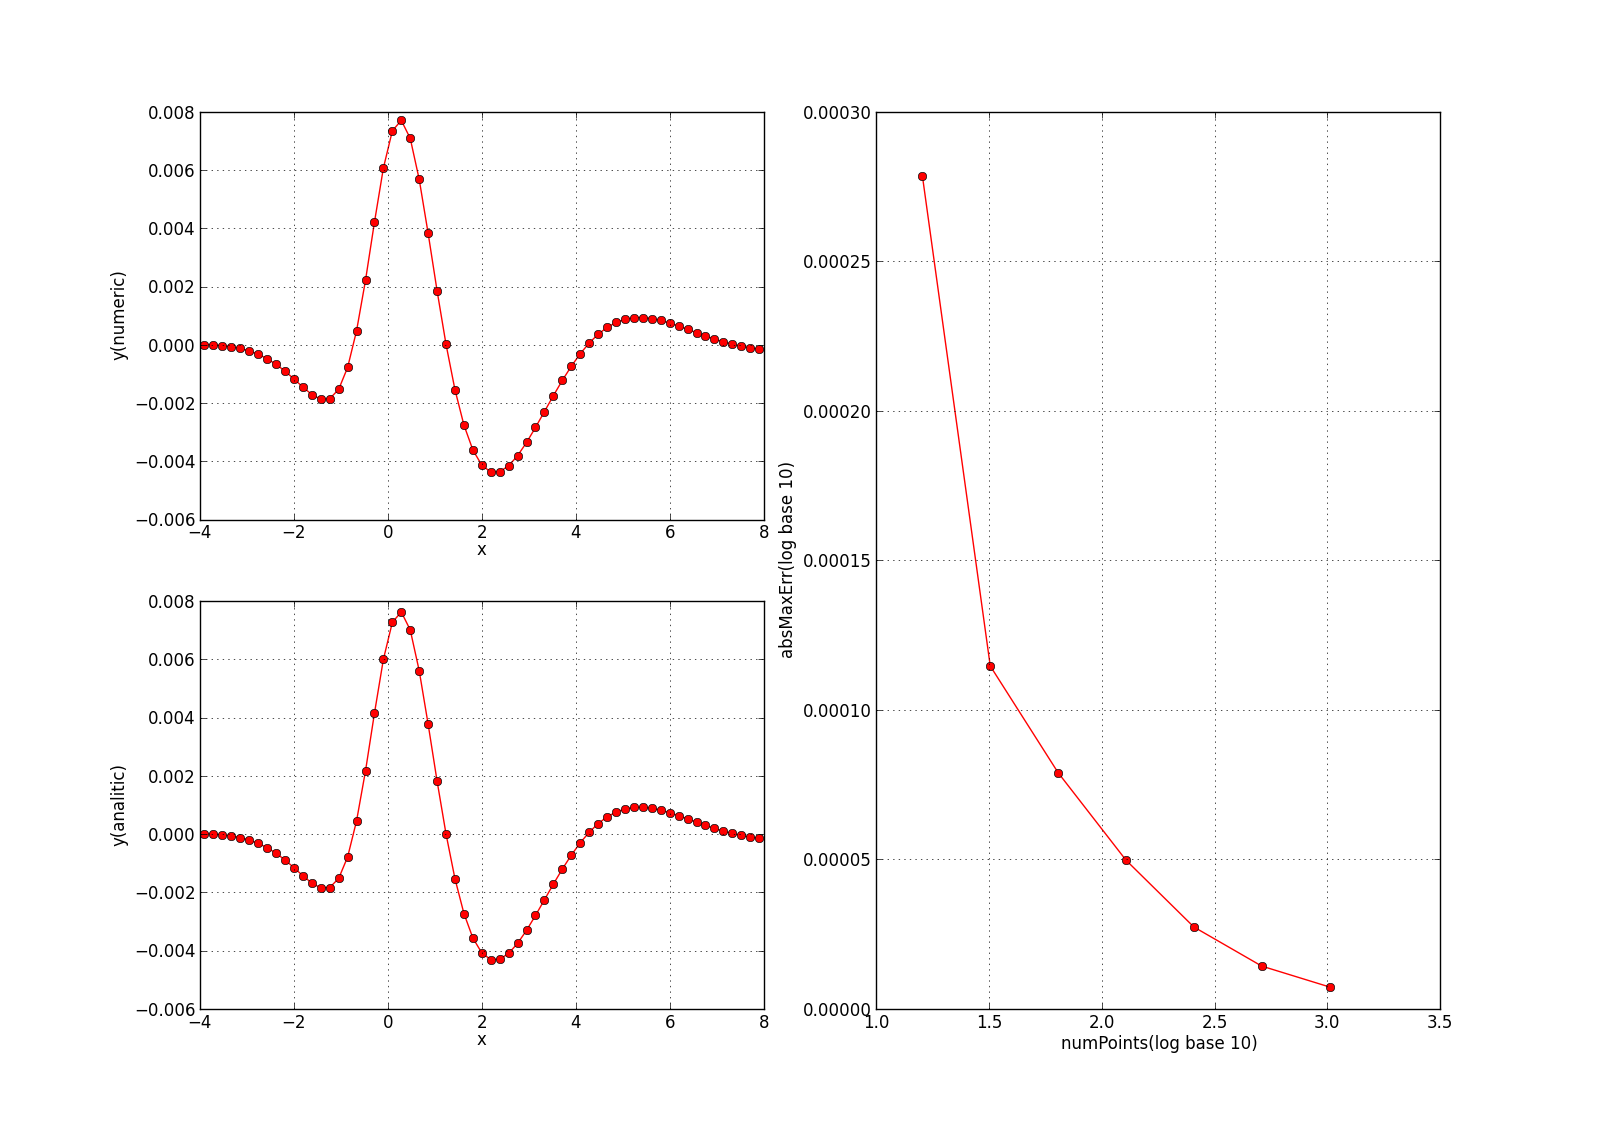
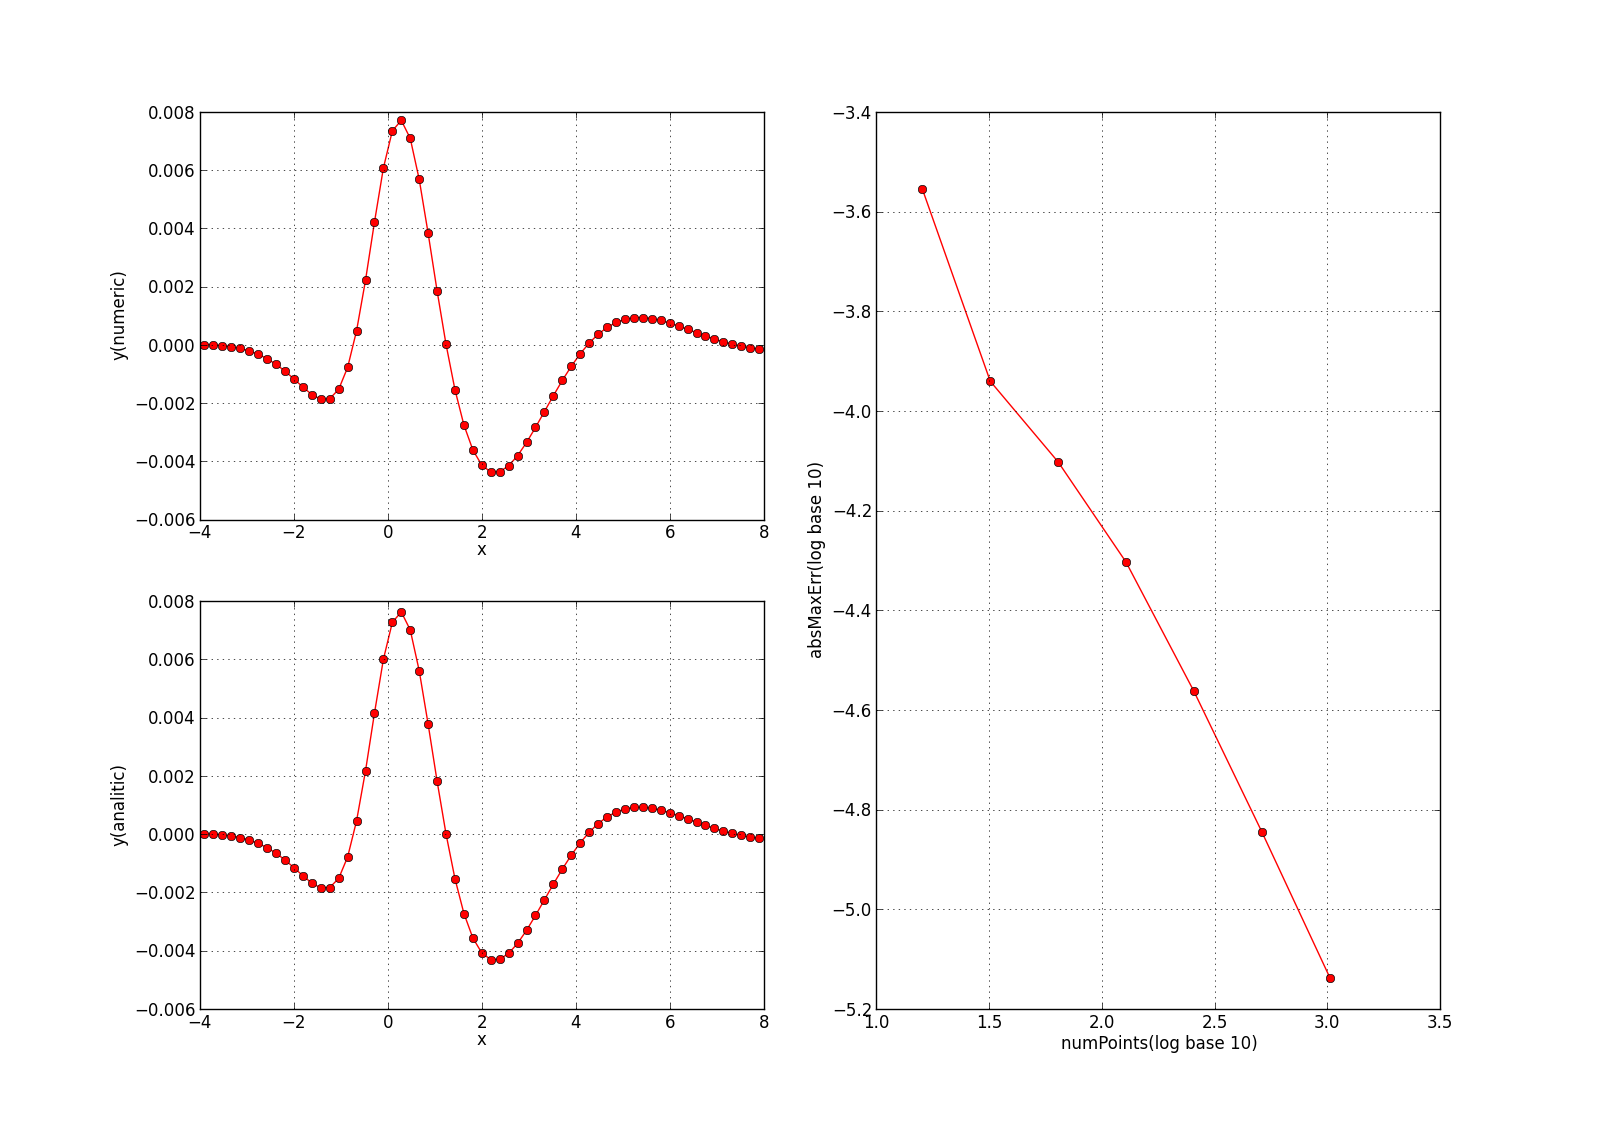
fix ylog

diff --git a/prac1.py b/prac1.py
@@ -73,7 +73,7 @@ def maxDif2(numPoints, toPlot=False):
 		return maxErr
 
 #CONFIG
-baseLog = 2
+baseLog = 10
 derivFunc = maxDif
 #ENDCONFIG
 
@@ -105,10 +105,11 @@ for numPoints in [16,32,64,128,256,512,1028]:
 		#print(res[0])
 		ax1.plot(res[0], res[1],  marker='o', linestyle='-', color="r")
 		ax2.plot(res[0], res[2],  marker='o', linestyle='-', color="r")
-		yerror.append(res[3])
+		yval = res[3]
 	else:
 		res = derivFunc(numPoints)
-		yerror.append(res)
+		yval = res
+	yerror.append(math.log(yval, baseLog))
 print("polyfit coef a(n), a(n-1), ..a(0) in polynom a(n) * x**n + .. a(1)x + a(0)")
 print("degree 1")
 print(np.polyfit(xerror,yerror,1))
